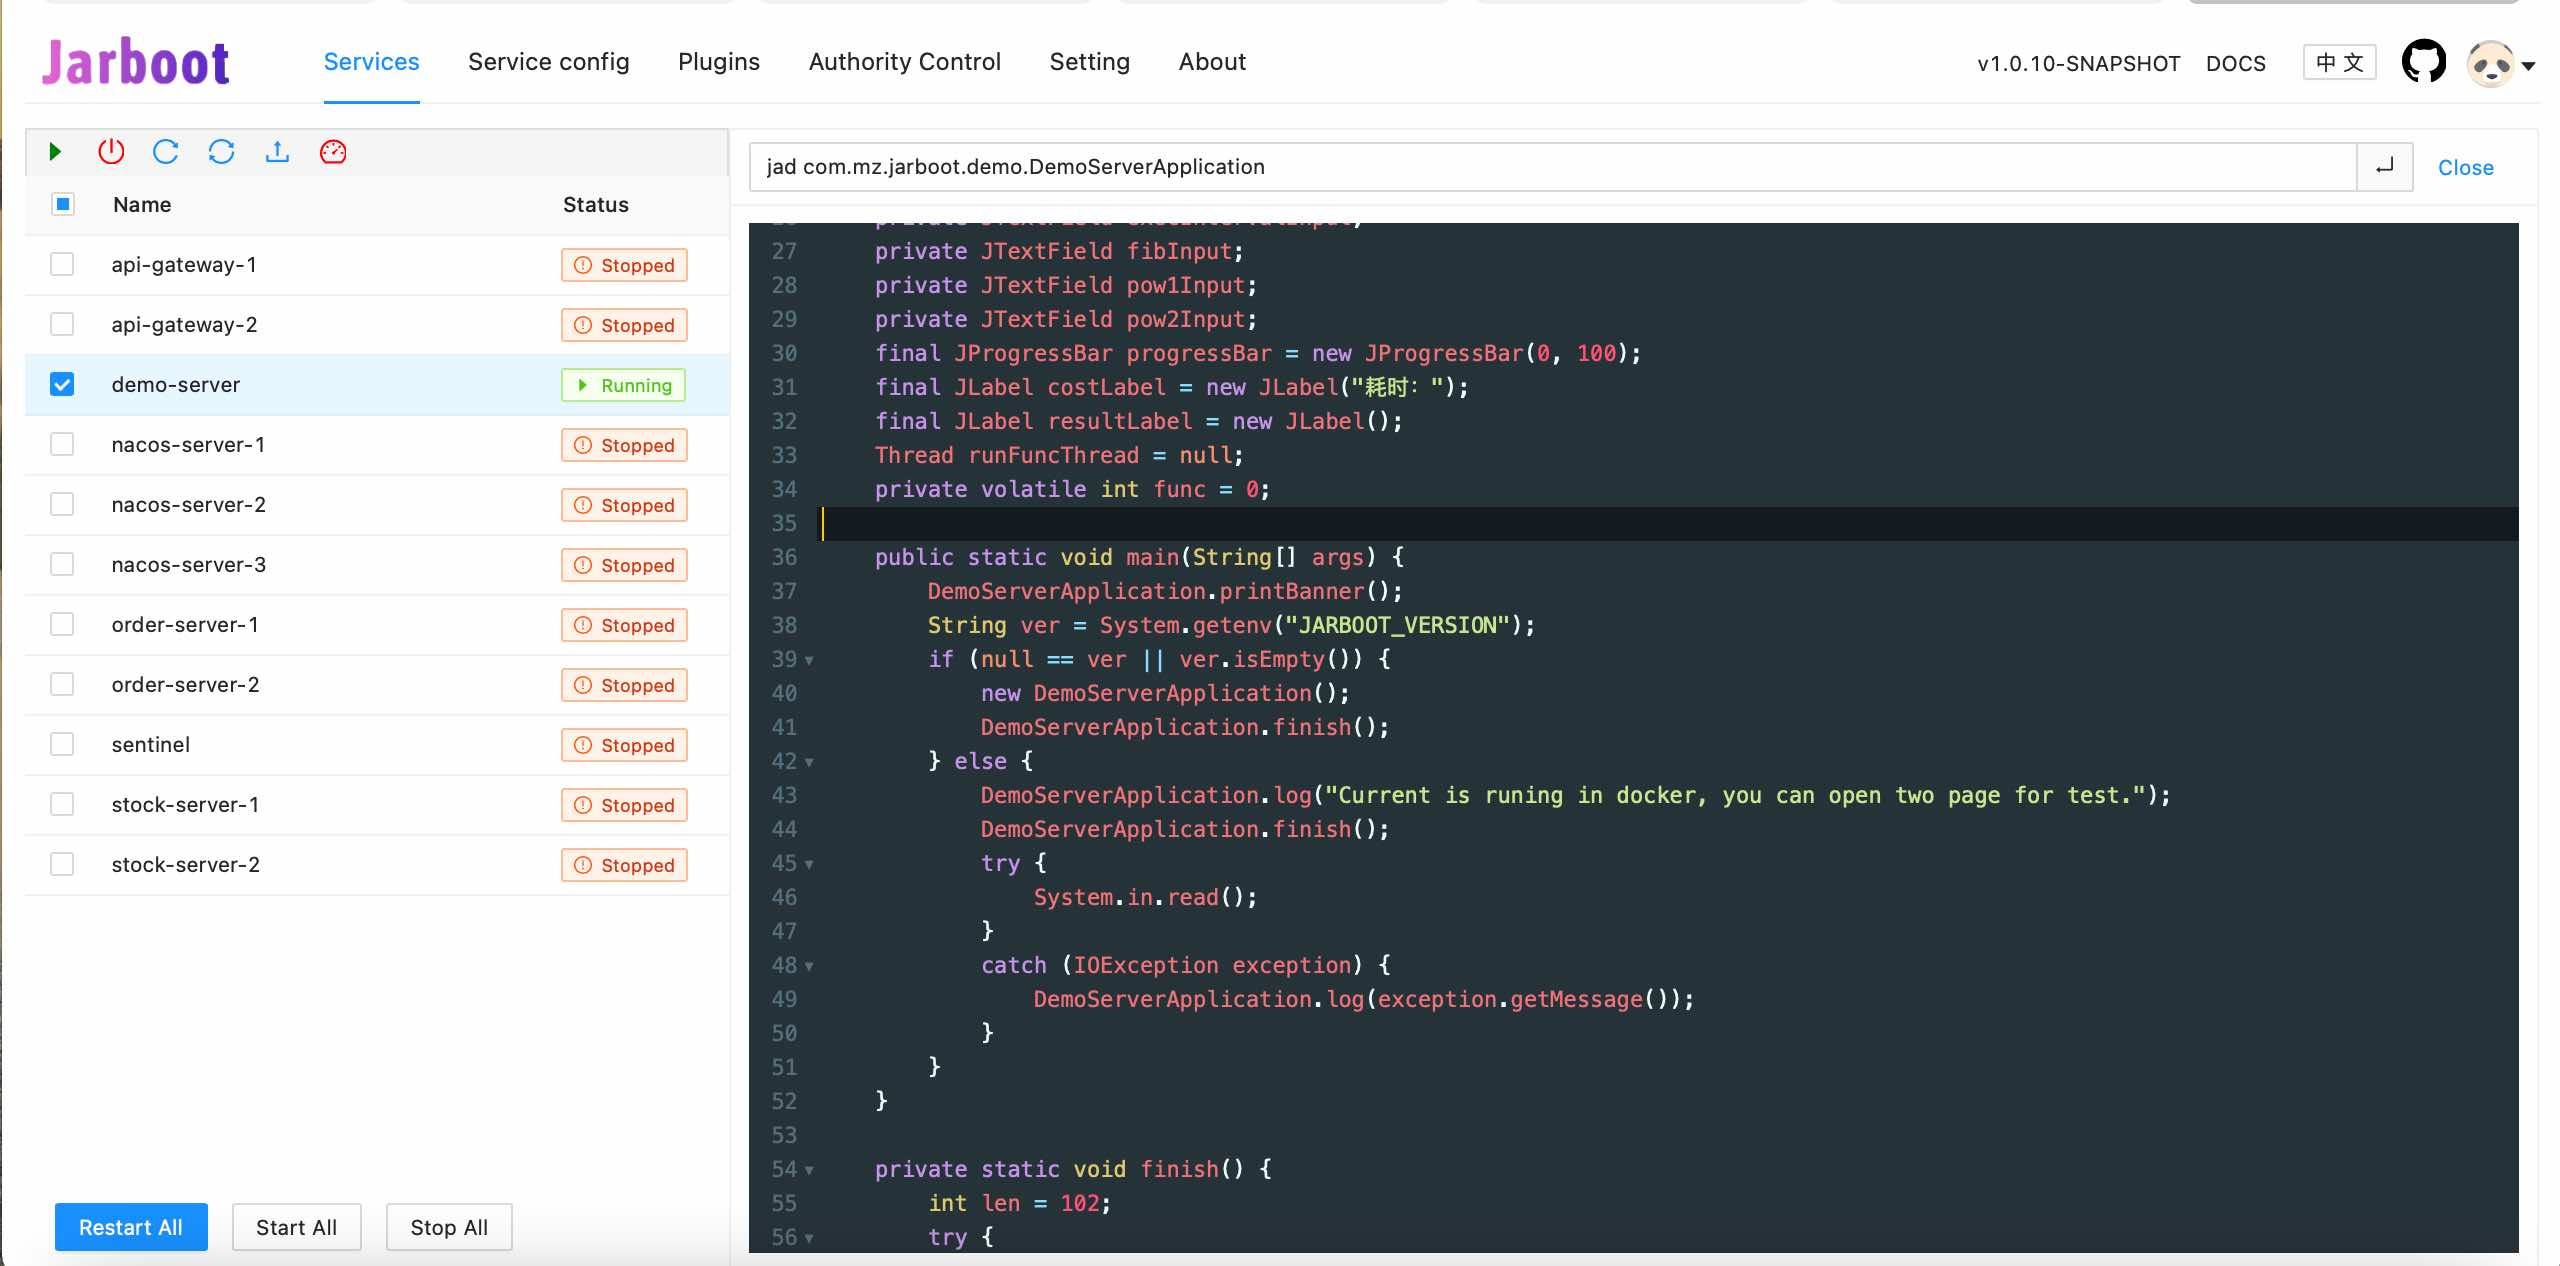
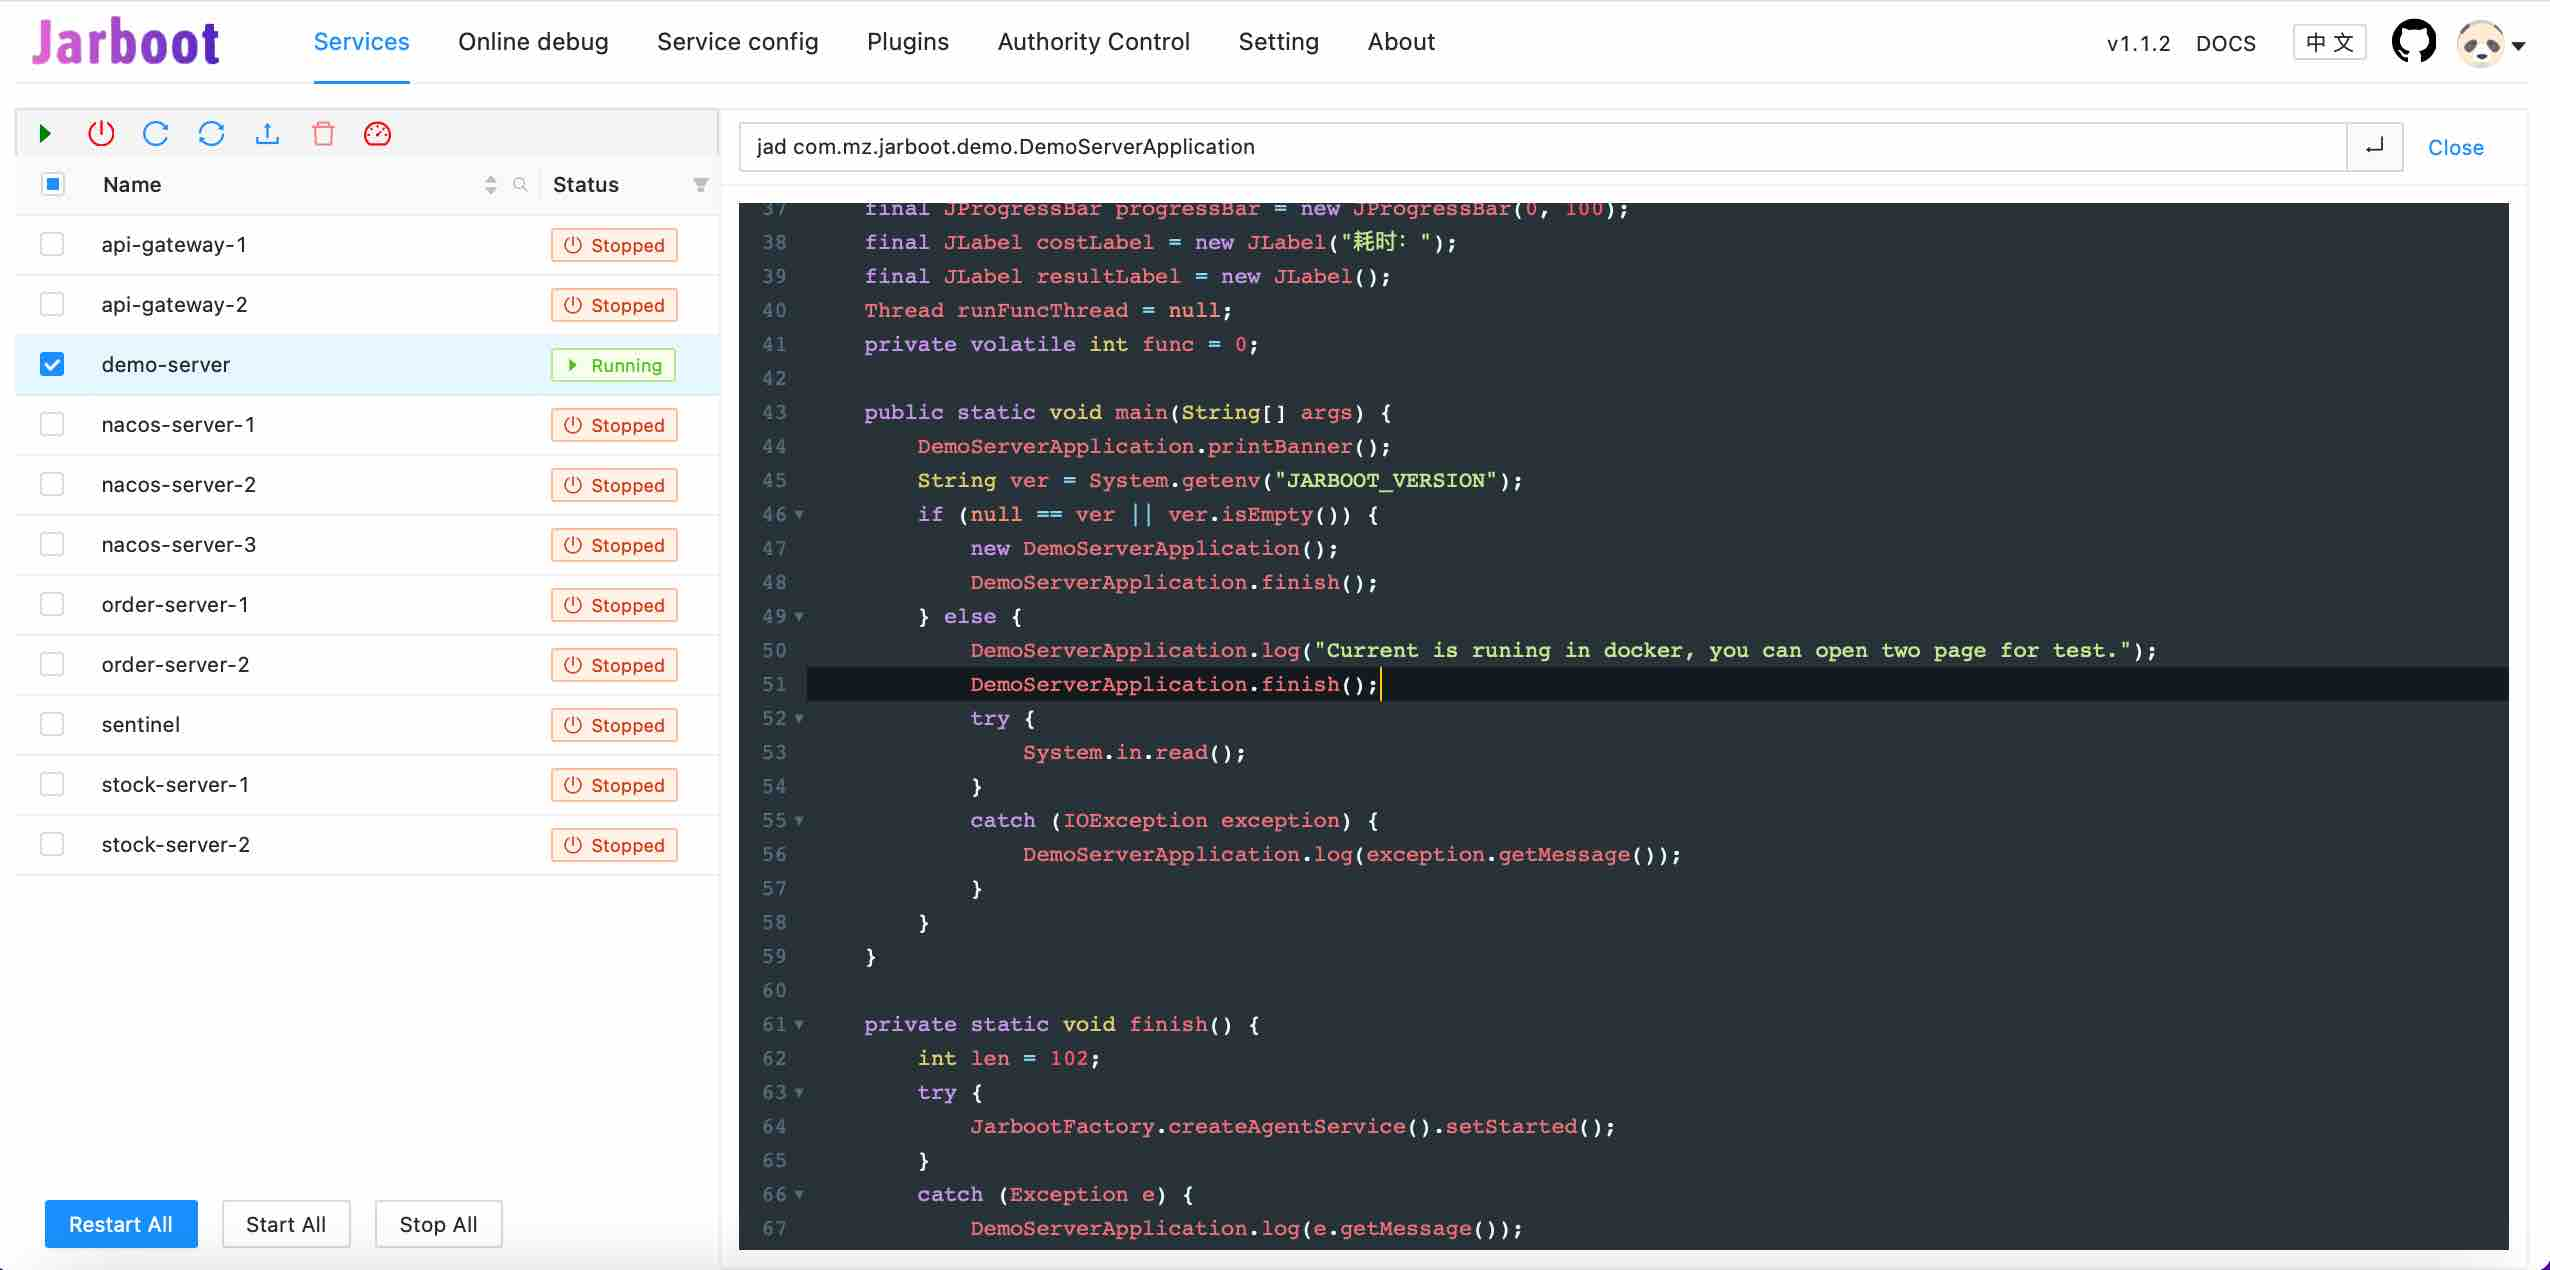
feature: 更新1.1.2版本文档

Changed region(s): [[0.0, 0.0, 1.0, 1.0], [0.0, 0.9242, 0.2169, 1.0], [0.7745, 0.0, 0.9914, 0.0616]]

diff --git a/jarboot-ui/src/components/extra/UserMenu.tsx b/jarboot-ui/src/components/extra/UserMenu.tsx
@@ -29,11 +29,12 @@ const UserPopMenu: any = memo((props: any) => {
     const onClose = () => {
         setVisible(false);
     };
+    const username = JarBootConst.currentUser.username;
     return <>
         <Menu onClick={handleClick} selectedKeys={[]}
               defaultSelectedKeys={['user-title']} mode="inline"
               style={{width: 220}}>
-            <Menu.Item key={"user-title"}><UserOutlined/>{props?.username}</Menu.Item>
+            <Menu.Item key={"user-title"}><UserOutlined/>{username}</Menu.Item>
             <Menu.Divider/>
             <Menu.Item key={MODIFY_PWD_KEY}>
                 <FormOutlined />
@@ -44,24 +45,23 @@ const UserPopMenu: any = memo((props: any) => {
                 {intl.formatMessage({id: 'SIGN_OUT'})}
             </Menu.Item>
         </Menu>
-        {visible && <ModifyUserModal username={JarBootConst.currentUser.username}
+        {visible && <ModifyUserModal username={username}
                                      onClose={onClose} visible={visible}/>}
     </>;
 });
 
 interface UserMenuProp {
-    username: string;
     className?: any;
 }
 const UserMenu = (props: UserMenuProp) => {
     let [userMenuVisible, setUserMenuVisible] = useState(false);
     const icon = <DefaultUserIcon style={{ fontSize: '32px' }}/>;
-    return <Popover content={<UserPopMenu username={props.username} onHide={() => setUserMenuVisible(false)}/>}
+    return <Popover content={<UserPopMenu onHide={() => setUserMenuVisible(false)}/>}
                     visible={userMenuVisible}
                     mouseLeaveDelay={0.5}
                     onVisibleChange={(visible) => setUserMenuVisible(visible)}
                     placement="bottomRight">
-        <Avatar className={props.className} alt={props.username} icon={icon}/>
+        <Avatar className={props.className} alt={JarBootConst.currentUser.username} icon={icon}/>
         <CaretDownOutlined style={{verticalAlign: 'text-top', position: "relative", top: '-2px'}}/>
     </Popover>;
 }

diff --git a/README.md b/README.md
@@ -51,7 +51,7 @@ Front-end interface adopts <code>React</code> technology, scaffold uses <code>Um
 
 Use <code>docker</code>
 ```bash
-sudo docker run -itd --name jarboot-test -p 9899:9899 mazheng0908/jarboot
+sudo docker run -itd --name jarboot -p 9899:9899 mazheng0908/jarboot
 ```
 
 ### Code build method
@@ -92,7 +92,7 @@ Use SPI extension can implement your own command, define a command how to execut
 <dependency>
     <groupId>io.github.majianzheng</groupId>
     <artifactId>spring-boot-starter-jarboot</artifactId>
-    <version>1.1.1</version>
+    <version>1.1.2</version>
 </dependency>
 ```
 2. Implement <code>CommandProcessor</code>SPI interface
@@ -140,7 +140,7 @@ Demonstrate how to use ordinary non springboot applications.
     <groupId>io.github.majianzheng</groupId>
     <artifactId>jarboot-api</artifactId>
     <scope>provided</scope>
-    <version>1.1.1</version>
+    <version>1.1.2</version>
 </dependency>
 ```
 2. Implement spi interface

diff --git a/README_CN.md b/README_CN.md
@@ -51,7 +51,7 @@ English version goes [here](README.md).
 
 使用<code>Docker</code>
 ```bash
-sudo docker run -itd --name jarboot-test -p 9899:9899 mazheng0908/jarboot
+sudo docker run -itd --name jarboot -p 9899:9899 mazheng0908/jarboot
 ```
 
 ### 编译源码的步骤
@@ -91,7 +91,7 @@ $ sh startup.sh
 <dependency>
     <groupId>io.github.majianzheng</groupId>
     <artifactId>spring-boot-starter-jarboot</artifactId>
-    <version>1.1.1</version>
+    <version>1.1.2</version>
 </dependency>
 ```
 2. 实现<code>CommandProcessor</code>SPI接口
@@ -138,7 +138,7 @@ $ spring.env spring.application.name
     <groupId>io.github.majianzheng</groupId>
     <artifactId>jarboot-api</artifactId>
     <scope>provided</scope>
-    <version>1.1.1</version>
+    <version>1.1.2</version>
 </dependency>
 ```
 2. 实现spi接口
